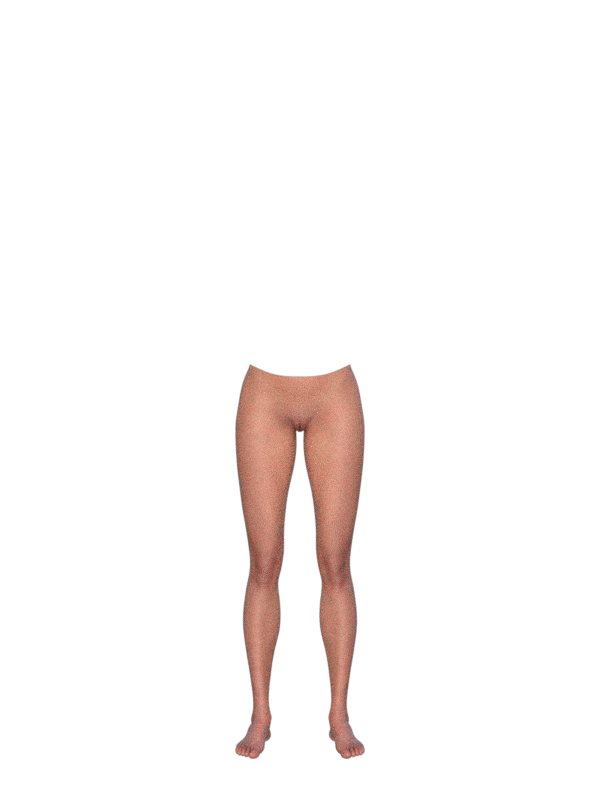
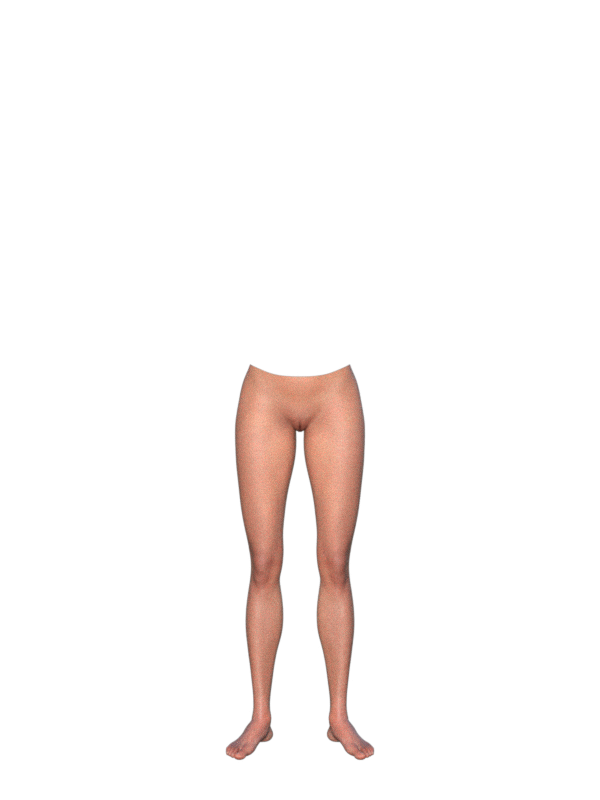
Add high heels

Changed region(s): [[0.36, 0.4688, 0.63, 0.9688]]

diff --git a/bondage-academy/libs/bondage-academy-model/src/lib/config/item-config.ts b/bondage-academy/libs/bondage-academy-model/src/lib/config/item-config.ts
@@ -120,4 +120,33 @@ export const itemConfigs: Record<ItemCode, ItemConfig> = {
       },
     ],
   },
+
+  // Shoes
+  [ItemCode.CynthiaHighHeels]: {
+    code: ItemCode.CynthiaHighHeels,
+    name: "items.cynthiaHighHeels",
+    allowedSlots: [Slot.Shoes],
+    fragments: [
+      {
+        bodyType: ItemFragmentBodyType.LowerBody,
+        filePathSuffix: "Cynthia High Heels Strap",
+        subOrder: LayerSubOrder.Front,
+      },
+      {
+        bodyType: ItemFragmentBodyType.LowerBody,
+        filePathSuffix: "Cynthia High Heels Insole",
+        subOrder: LayerSubOrder.Front,
+      },
+      {
+        bodyType: ItemFragmentBodyType.LowerBody,
+        filePathSuffix: "Cynthia High Heels Platform",
+        subOrder: LayerSubOrder.Front,
+      },
+      {
+        bodyType: ItemFragmentBodyType.LowerBody,
+        filePathSuffix: "Cynthia High Heels Outsole",
+        subOrder: LayerSubOrder.Front,
+      },
+    ],
+  },
 };

diff --git a/bondage-academy/apps/bondage-academy-client/src/character/character-pose-controller.tsx b/bondage-academy/apps/bondage-academy-client/src/character/character-pose-controller.tsx
@@ -61,8 +61,20 @@ export default function CharacterPoseController(props: {
           </Button>
         </span>
         <span class="mr-2">
+          <Button onClick={() => changeLowerBodyPose(LowerBodyPose.StandHeels)}>
+            Stand heels
+          </Button>
+        </span>
+        <span class="mr-2">
           <Button onClick={() => changeLowerBodyPose(LowerBodyPose.WideLegs)}>
             Wide legs
+          </Button>
+        </span>
+        <span class="mr-2">
+          <Button
+            onClick={() => changeLowerBodyPose(LowerBodyPose.WideLegsHeels)}
+          >
+            Wide legs heels
           </Button>
         </span>
         <span class="mr-2">

diff --git a/bondage-academy/libs/bondage-academy-model/src/lib/config/pose-config.ts b/bondage-academy/libs/bondage-academy-model/src/lib/config/pose-config.ts
@@ -38,8 +38,18 @@ export const poseConfigs: Record<AnyPose, PoseConfig> = {
     order: LayerOrder.LowerBody,
     rootOffsetY: 39,
   },
+  [LowerBodyPose.StandHeels]: {
+    iamgePathPart: "Stand heels",
+    order: LayerOrder.LowerBody,
+    rootOffsetY: 39,
+  },
   [LowerBodyPose.WideLegs]: {
     iamgePathPart: "Wide legs",
+    order: LayerOrder.LowerBody,
+    rootOffsetY: 45,
+  },
+  [LowerBodyPose.WideLegsHeels]: {
+    iamgePathPart: "Wide legs heels",
     order: LayerOrder.LowerBody,
     rootOffsetY: 45,
   },

diff --git a/bondage-academy/libs/bondage-academy-model/src/lib/i18n/pl.ts b/bondage-academy/libs/bondage-academy-model/src/lib/i18n/pl.ts
@@ -47,6 +47,7 @@ export const plDictionary: RawDictionary = {
     rightSleeve: "Prawy rękaw",
     body: "Ciało",
     lowerUndies: "Dolna bielizna",
+    shoes: "Buty",
   },
   items: {
     hair1: "Włosy 1",
@@ -55,6 +56,7 @@ export const plDictionary: RawDictionary = {
     xFashionSleeve: "X fashion sleeve",
     petSuit: "Pet suit",
     xFashionThong: "X fashion thong",
+    cynthiaHighHeels: "Cynthia high heels",
   },
   minigame: {
     common: {

diff --git a/bondage-academy/libs/bondage-academy-model/src/lib/i18n/en.ts b/bondage-academy/libs/bondage-academy-model/src/lib/i18n/en.ts
@@ -44,6 +44,7 @@ export const enDictionary = {
     rightSleeve: "Right sleeve",
     body: "Body",
     lowerUndies: "Lower undies",
+    shoes: "Shoes",
   },
   items: {
     hair1: "Hair 1",
@@ -52,6 +53,7 @@ export const enDictionary = {
     xFashionSleeve: "X fashion sleeve",
     petSuit: "Pet suit",
     xFashionThong: "X fashion thong",
+    cynthiaHighHeels: "Cynthia high heels",
   },
   minigame: {
     common: {

diff --git a/bondage-academy/apps/bondage-academy-server/src/script/scripts/headmistress-script.ts b/bondage-academy/apps/bondage-academy-server/src/script/scripts/headmistress-script.ts
@@ -98,6 +98,7 @@ export class HeadmistressScript extends GameScript {
         { code: ItemCode.XFashionThong },
         { code: ItemCode.BeccaMeshBra, variant: "Black" },
         { code: ItemCode.BeccaMeshBra, variant: "Dots" },
+        { code: ItemCode.CynthiaHighHeels },
       ]);
     } else {
       this.chatService.sendChatMessage([session], {

diff --git a/bondage-academy/libs/bondage-academy-model/src/lib/model/character-pose.ts b/bondage-academy/libs/bondage-academy-model/src/lib/model/character-pose.ts
@@ -10,7 +10,9 @@ export enum UpperBodyPose {
 
 export enum LowerBodyPose {
   Stand = "Stand",
+  StandHeels = "StandHeels",
   WideLegs = "WideLegs",
+  WideLegsHeels = "WideLegsHeels",
   SimpleKneel = "SimpleKneel",
   WideKneel = "WideKneel",
 }

diff --git a/bondage-academy/apps/bondage-academy-client/src/item/wardrobe-view.tsx b/bondage-academy/apps/bondage-academy-client/src/item/wardrobe-view.tsx
@@ -40,6 +40,7 @@ export default function WardrobeView(props: { playerId: number }) {
     Slot.LeftSleeve,
     Slot.RightSleeve,
     Slot.LowerUndies,
+    Slot.Shoes,
   ];
 
   function wear(item?: Item) {

diff --git a/bondage-academy/libs/bondage-academy-model/src/lib/config/slot-config.ts b/bondage-academy/libs/bondage-academy-model/src/lib/config/slot-config.ts
@@ -27,4 +27,7 @@ export const slotConfigs: Record<Slot, SlotConfig> = {
   [Slot.LowerUndies]: {
     name: "slots.lowerUndies",
   },
+  [Slot.Shoes]: {
+    name: "slots.shoes",
+  },
 };

diff --git a/bondage-academy/libs/bondage-academy-model/src/lib/model/item.ts b/bondage-academy/libs/bondage-academy-model/src/lib/model/item.ts
@@ -16,6 +16,9 @@ export enum ItemCode {
 
   // Lower undies
   XFashionThong = "XFashionThong",
+
+  // Shoes
+  CynthiaHighHeels = "CynthiaHighHeels",
 }
 
 export interface Item {

diff --git a/bondage-academy/libs/bondage-academy-model/src/lib/model/slot.ts b/bondage-academy/libs/bondage-academy-model/src/lib/model/slot.ts
@@ -6,4 +6,5 @@ export enum Slot {
   RightSleeve = "RightSleeve",
   Body = "Body",
   LowerUndies = "LowerUndies",
+  Shoes = "Shoes",
 }
